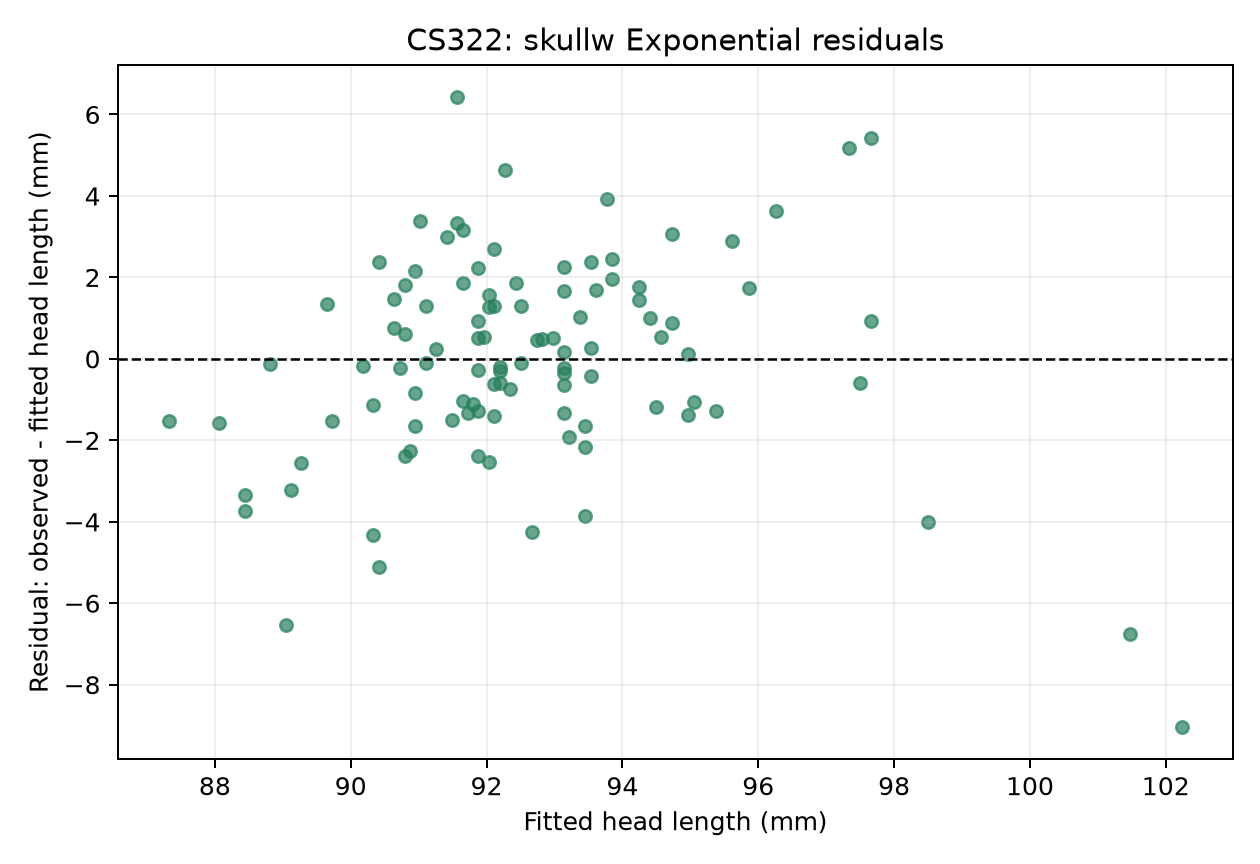
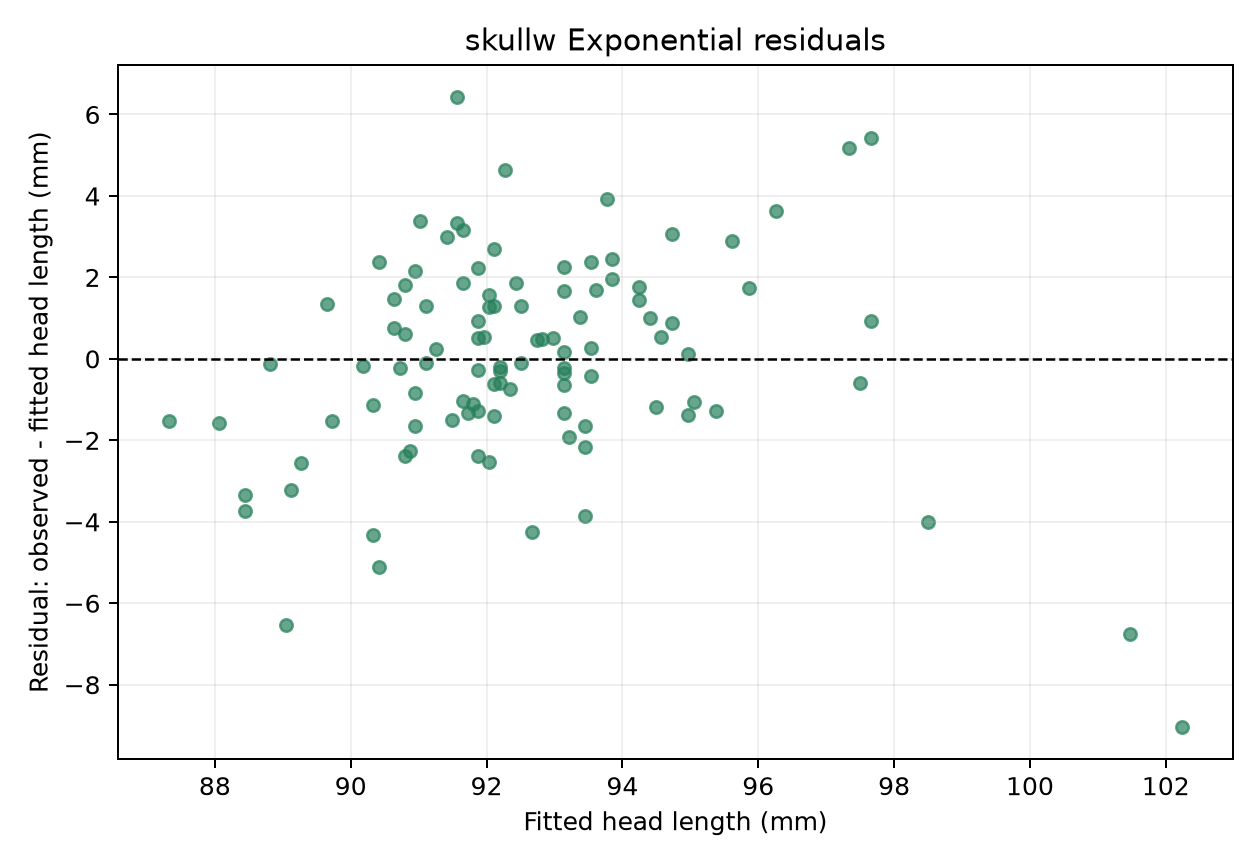
final

Changed region(s): [[0.3095, 0.0312, 0.7429, 0.0625]]

diff --git a/analysis.py b/analysis.py
@@ -1,4 +1,4 @@
-"""CS322: six separate least-squares models for possum head length.
+"""six separate least-squares models for possum head length.
 
 Run: python analysis.py [optional/path/to/possum.csv]
 Only the three selected columns determine which observations are included.
@@ -53,7 +53,7 @@ def inspect_data(csv_path):
         raise ValueError("R-squared is undefined when all head lengths are equal.")
 
     inspection = {
-        "title": "CS322 CSV inspection",
+        "title": "CSV inspection",
         "source": str(csv_path),
         "source_sha256": hashlib.sha256(csv_path.read_bytes()).hexdigest(),
         "row_count": len(raw),
@@ -195,7 +195,7 @@ def create_plots(x, y, models, predictor, xlabel, output):
         fig, ax = plt.subplots(figsize=(7, 4.8))
         ax.scatter(x, y, s=25, alpha=0.65, color="#4b5563", label="Observed possums")
         ax.plot(grid, predict(model, grid), color=COLORS[name], lw=2, label=f"{name} fit")
-        ax.set(title=f"CS322: Head length vs {xlabel.split(' (')[0].lower()} - {name}",
+        ax.set(title=f"Head length vs {xlabel.split(' (')[0].lower()} - {name}",
                xlabel=xlabel, ylabel="Head length (mm)")
         ax.legend()
         ax.grid(alpha=0.2)
@@ -205,7 +205,7 @@ def create_plots(x, y, models, predictor, xlabel, output):
         fig, ax = plt.subplots(figsize=(7, 4.8))
         ax.scatter(fitted, y-fitted, s=25, alpha=0.7, color=COLORS[name])
         ax.axhline(0, color="black", ls="--", lw=1)
-        ax.set(title=f"CS322: {predictor} {name} residuals",
+        ax.set(title=f"{predictor} {name} residuals",
                xlabel="Fitted head length (mm)",
                ylabel="Residual: observed - fitted head length (mm)")
         ax.grid(alpha=0.2)
@@ -216,7 +216,7 @@ def create_plots(x, y, models, predictor, xlabel, output):
     for model, style in zip(models, ["-", "--", ":"]):
         name = model["function"]
         ax.plot(grid, predict(model, grid), color=COLORS[name], ls=style, lw=2, label=name)
-    ax.set(title=f"CS322: Three functions for {xlabel.split(' (')[0].lower()}",
+    ax.set(title=f"Three functions for {xlabel.split(' (')[0].lower()}",
            xlabel=xlabel, ylabel="Head length (mm)")
     ax.legend()
     ax.grid(alpha=0.2)
@@ -244,7 +244,7 @@ def main():
     data, inspection = inspect_data(source)
     output.mkdir(parents=True, exist_ok=True)
     write_json(output / "data_inspection.json", inspection)
-    versions = {"title": "CS322 execution versions", "Python": platform.python_version(),
+    versions = {"title": "execution versions", "Python": platform.python_version(),
                 "pandas": pd.__version__, "NumPy": np.__version__,
                 "SciPy": scipy.__version__, "Matplotlib": matplotlib.__version__}
     write_json(output / "package_versions.json", versions)
@@ -253,7 +253,7 @@ def main():
     models_all, comparisons, coefficients, examples = [], [], [], []
     row_outputs = data.copy()
     row_outputs.insert(0, "csv_row_including_header", data.index + 2)
-    checks = {"title": "CS322 numerical verification", "models_checked": 0,
+    checks = {"title": "numerical verification", "models_checked": 0,
               "metric_formulas_and_finiteness": "PASS"}
     for predictor, (xlabel, example_x) in PREDICTORS.items():
         x = data[predictor].to_numpy(dtype=float)
@@ -290,14 +290,14 @@ def main():
         models_all.extend(models)
 
     captions = {
-        "model_comparison.csv": "CS322 model comparison: in-sample fit on head length (mm); SSE in mm^2, RMSE in mm",
-        "coefficients.csv": "CS322 fitted coefficients: x uses the predictor's stated units; y is head length (mm)",
-        "example_predictions.csv": "CS322 separate example predictions of head length (mm)",
-        "fitted_values_and_residuals.csv": "CS322 common observations, fitted head lengths and residuals (mm)",
+        "model_comparison.csv": "model comparison: in-sample fit on head length (mm); SSE in mm^2, RMSE in mm",
+        "coefficients.csv": "fitted coefficients: x uses the predictor's stated units; y is head length (mm)",
+        "example_predictions.csv": "separate example predictions of head length (mm)",
+        "fitted_values_and_residuals.csv": "common observations, fitted head lengths and residuals (mm)",
     }
     tables = [pd.DataFrame(comparisons), pd.DataFrame(coefficients),
               pd.DataFrame(examples), row_outputs]
-    log = ["CS322 possum least-squares analysis", json.dumps(inspection, indent=2)]
+    log = ["possum least-squares analysis", json.dumps(inspection, indent=2)]
     for (filename, caption), table in zip(captions.items(), tables):
         table.to_csv(output / filename, index=False, float_format="%.15g")
         log.extend(["\n" + caption, table.to_string(index=False, float_format=lambda v: f"{v:.6f}")])
@@ -309,9 +309,9 @@ def main():
     if not checks["source_CSV_unchanged"]:
         raise AssertionError("Source CSV changed during analysis.")
     write_json(output / "verification.json", checks)
-    write_json(output / "model_details.json", {"title": "CS322 fitted model details", "models": models_all})
+    write_json(output / "model_details.json", {"title": "fitted model details", "models": models_all})
     log.extend([
-        "\nCS322 fitting notes",
+        "\nfitting notes",
         "Linear/quadratic: explicit design matrices solved by numpy.linalg.lstsq.",
         "Exponential: log least squares initializes alpha=ln(A), B; scipy.optimize.least_squares",
         "then minimizes sum((y-exp(alpha+B*x))^2) in original head-length units.",

diff --git a/README.md b/README.md
@@ -1,4 +1,4 @@
-# CS322 possum least-squares analysis
+# possum least-squares analysis
 
 Research question: How well can total length and skull width separately predict
 a possum's head length?
@@ -7,7 +7,7 @@ This project contains Python code and analysis outputs. No report or slides are
 included. The project brief was read as background; the requested scope and model
 definitions determine this implementation.
 
-## CS322 setup and run
+## setup and run
 
 Tested with Python 3.14.7. Use a virtual environment so dependencies stay local:
 
@@ -35,7 +35,7 @@ folder. Keep the input outside that folder. Figures save automatically; no plot
 window opens. `requirements.txt` pins the four analysis packages used in this run;
 the exact Python and package versions are also saved with each run.
 
-## CS322 files and outputs
+## files and outputs
 
 - `possum.csv`: original supplied data, preserved unchanged. Its external source
   and collection year are not established by the CSV; no provenance was invented.
@@ -57,10 +57,10 @@ the exact Python and package versions are also saved with each run.
   exponential initialization/convergence details.
 - `outputs/package_versions.json`, `outputs/verification.json`: run versions and
   numerical checks.
-- `outputs/table_captions.txt`: CS322 captions for the machine-readable CSV tables.
+- `outputs/table_captions.txt`: captions for the machine-readable CSV tables.
 - `outputs/analysis_output.txt`: plain-text tables, inspection and fitting notes.
 
-## CS322 data and fitting methods
+## data and fitting methods
 
 `hdlngth` is head length in mm (outcome). `totlngth` is total length in cm and
 `skullw` is skull width in mm. The predictors are fitted **separately**, never
@@ -104,7 +104,7 @@ formula is a **descriptive extension**. All metrics describe **in-sample fit**;
 no held-out evaluation was requested, so they do not establish accuracy for
 unseen possums or causal effects.
 
-## CS322 observed results
+## observed results
 
 The skull-width quadratic has the strongest in-sample fit among the six models:
 R² = 0.623515, adjusted R² = 0.616060 and RMSE = 2.181983 mm. Its R² means it
@@ -127,7 +127,7 @@ turns downward near the upper end of the range, and sparse large skull widths
 make that shape worth discussing with the residual plots. No observation was
 removed to improve the curves.
 
-## CS322 verification and AI assistance
+## verification and AI assistance
 
 AI assisted with creating and commenting the code, running it on the supplied
 CSV, and explaining the resulting tables. Checks recompute metrics using scalar
